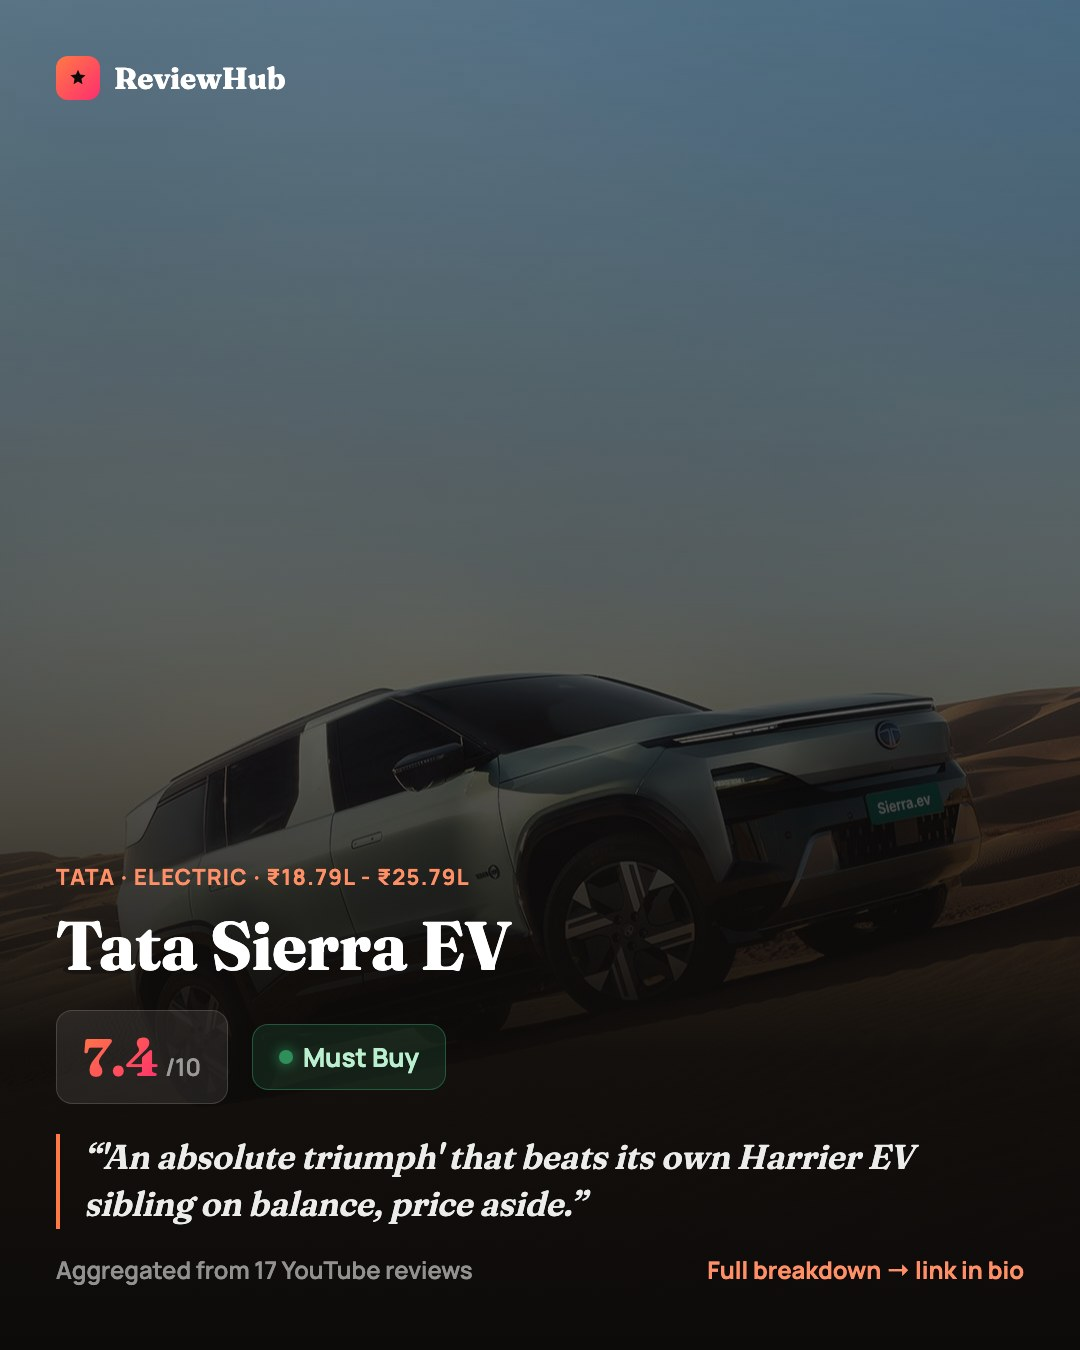
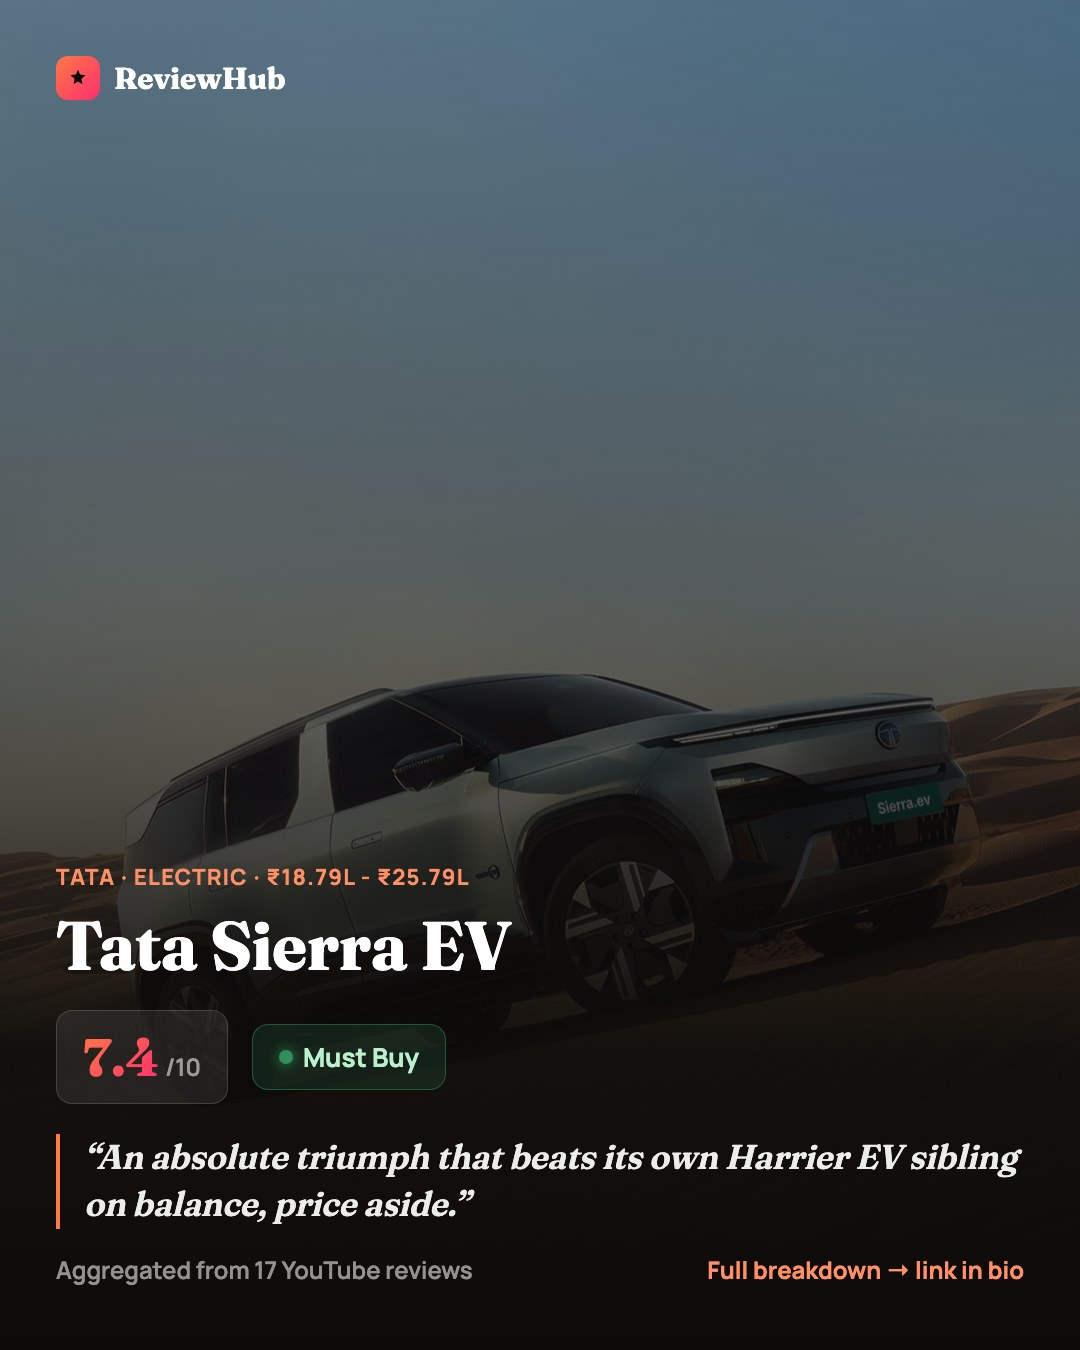
Fix stray quote mark in IG pull-quote extraction, add Skoda Slavia post
pick_pull_quote() now strips a partial inline quotation's specific
opening/closing marks instead of just trimming string edges, so no
dangling quote is left once the template wraps the sentence in its
own outer quotes.

Changed region(s): [[0.0917, 0.84, 0.9472, 0.9022]]

diff --git a/scripts/generate_ig_post.py b/scripts/generate_ig_post.py
@@ -56,6 +56,16 @@ def pick_pull_quote(entry):
     quote = pool[0]["quote"]
     m = re.search(r"Bottom line:\s*(.+)$", quote)
     text = m.group(1).strip() if m else quote
+    # If the text opens with a quote mark, it's a partial inline quotation
+    # (e.g. "'X' from a reviewer who..."), not the whole sentence quoted -
+    # strip that specific opening mark and its matching close, not just the
+    # string's outer edges, so no quote mark is left stranded mid-sentence
+    # once the template wraps the whole thing in its own curly quotes.
+    if text[:1] in "'\"‘’“”":
+        close_char = {"'": "'", '"': '"', '‘': '’', '“': '”'}.get(text[0], text[0])
+        close_idx = text.find(close_char, 1)
+        if close_idx != -1:
+            text = text[1:close_idx] + text[close_idx + 1:]
     text = text[:1].upper() + text[1:]
     return text.rstrip(".") + "."
 
